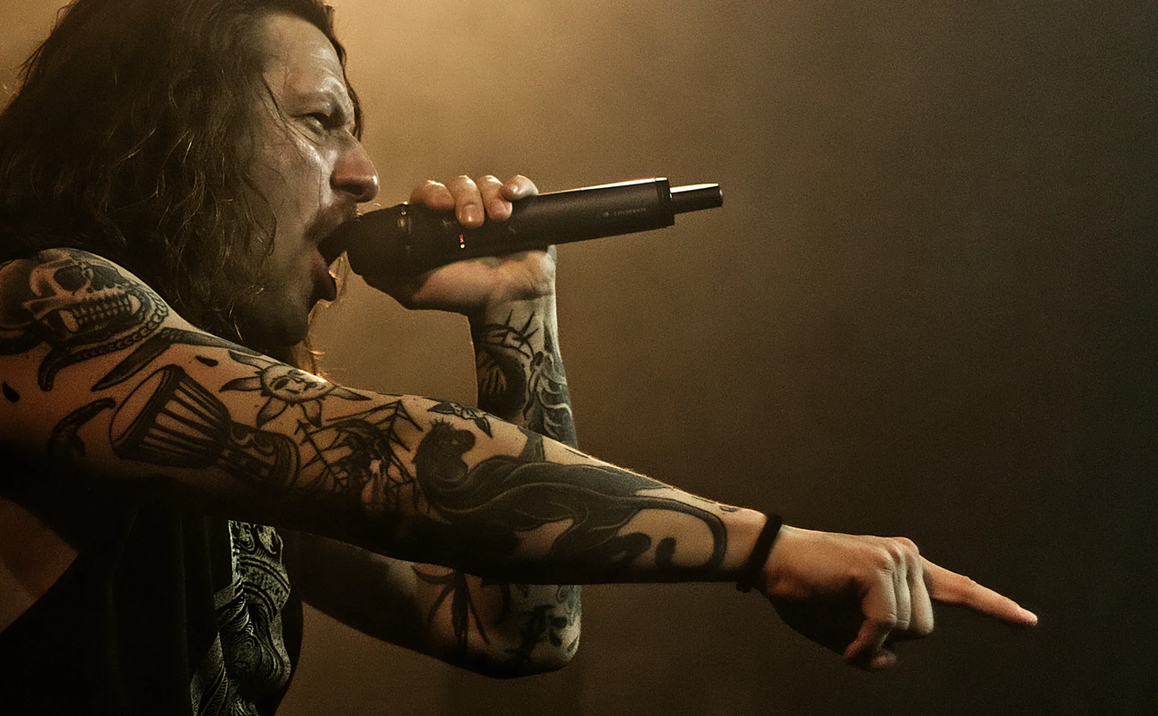
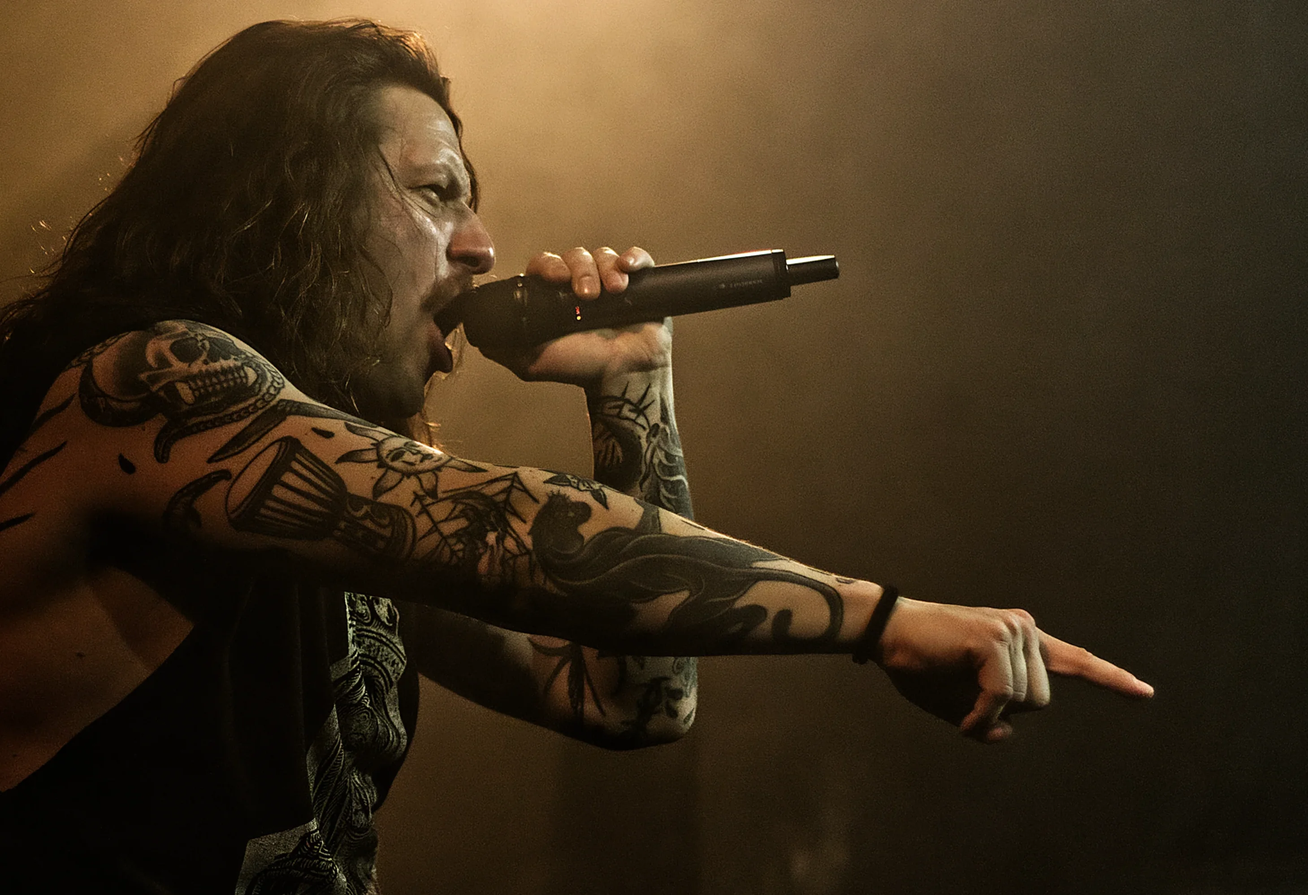
Adds larger photo to avoid black margins on sides

diff --git a/app/components/design/ArticlesHero.vue b/app/components/design/ArticlesHero.vue
@@ -4,7 +4,7 @@
       class="sticky top-(--ui-header-height) h-[calc(100svh-var(--ui-header-height))] overflow-hidden @container-size"
     >
       <div ref="frame" class="golden-ratio-frame absolute will-change-transform">
-        <div class="photo absolute size-full">
+        <div class="photo absolute" :style="PHOTO_POSITION">
           <NuxtImg
             src="/images/design-hero/baest.webp"
             alt="Example of photo to display design rules"
@@ -16,17 +16,28 @@
 
           <svg
             id="masks"
-            :viewBox="`0 0 ${FRAME.width} ${FRAME.height}`"
+            :viewBox="`${PHOTO.x} ${PHOTO.y} ${PHOTO.width} ${PHOTO.height}`"
             class="absolute inset-0 size-full"
             aria-hidden="true"
           >
             <defs>
+              <radialGradient
+                id="spiral-vignette"
+                gradientUnits="userSpaceOnUse"
+                cx="0"
+                cy="0"
+                r="1"
+                :gradientTransform="`translate(${SPIRAL_VIGNETTE.x} ${SPIRAL_VIGNETTE.y}) scale(${SPIRAL_VIGNETTE.rx} ${SPIRAL_VIGNETTE.ry})`"
+              >
+                <stop offset="0.8" style="stop-color: var(--color-ink)" stop-opacity="0" />
+                <stop offset="1" style="stop-color: var(--color-ink)" />
+              </radialGradient>
               <radialGradient id="mouth-hole">
                 <stop offset="0.5" stop-color="black" />
                 <stop offset="1" stop-color="white" />
               </radialGradient>
               <mask id="mouth-spotlight">
-                <rect :width="FRAME.width" :height="FRAME.height" fill="white" />
+                <rect v-bind="PHOTO" fill="white" />
                 <circle
                   class="spotlight"
                   :cx="SPIRAL_EYE.x"
@@ -37,13 +48,8 @@
               </mask>
             </defs>
 
-            <rect
-              class="shade fill-ink"
-              :width="FRAME.width"
-              :height="FRAME.height"
-              opacity="0"
-              mask="url(#mouth-spotlight)"
-            />
+            <rect v-bind="PHOTO" fill="url(#spiral-vignette)" />
+            <rect class="shade fill-ink" v-bind="PHOTO" opacity="0" mask="url(#mouth-spotlight)" />
           </svg>
         </div>
 
@@ -178,6 +184,19 @@ const CAPTIONS = [
   { title: 'Golden ratio', text: 'φ = 1.618. The spiral curls straight into the center of scream' },
 ]
 const FRAME = { width: 1618, height: 1000 }
+const PHOTO_HIDDEN_SIDES = { left: 162, right: 47, top: 100, bottom: 150 }
+const PHOTO = {
+  x: -PHOTO_HIDDEN_SIDES.left,
+  y: -PHOTO_HIDDEN_SIDES.top,
+  width: FRAME.width + PHOTO_HIDDEN_SIDES.left + PHOTO_HIDDEN_SIDES.right,
+  height: FRAME.height + PHOTO_HIDDEN_SIDES.top + PHOTO_HIDDEN_SIDES.bottom,
+}
+const PHOTO_POSITION = {
+  left: `${(PHOTO.x / FRAME.width) * 100}%`,
+  top: `${(PHOTO.y / FRAME.height) * 100}%`,
+  width: `${(PHOTO.width / FRAME.width) * 100}%`,
+  height: `${(PHOTO.height / FRAME.height) * 100}%`,
+}
 const TO_DRAW = { strokeDashoffset: 0, autoRound: false }
 
 // Screen 1 - Rule of thirds
@@ -237,6 +256,7 @@ const SPIRAL_EASE =
 const CAMERA_ZOOM = 0.8
 const CAMERA_EDGE_FADE = '15%'
 const CAMERA_ORIGIN = `${(SPIRAL_EYE.x / FRAME.width) * 100}% ${(SPIRAL_EYE.y / FRAME.height) * 100}%`
+const SPIRAL_VIGNETTE = { x: 1100, y: 382, rx: 1100, ry: 640 }
 
 onMounted(() => {
   gsap.registerPlugin(GSDevTools, ScrollTrigger, CustomEase) // TODO Remove GSDevTools
@@ -321,9 +341,8 @@ onBeforeUnmount(() => {
 }
 
 .photo {
-  --to-edges: transparent, black var(--edge-fade), black calc(100% - var(--edge-fade)), transparent;
-  mask-image:
-    linear-gradient(to right, var(--to-edges)), linear-gradient(to bottom, var(--to-edges));
+  --to-edge: black calc(100% - var(--edge-fade)), transparent;
+  mask-image: linear-gradient(to right, var(--to-edge)), linear-gradient(to bottom, var(--to-edge));
   mask-composite: intersect;
 }
 
